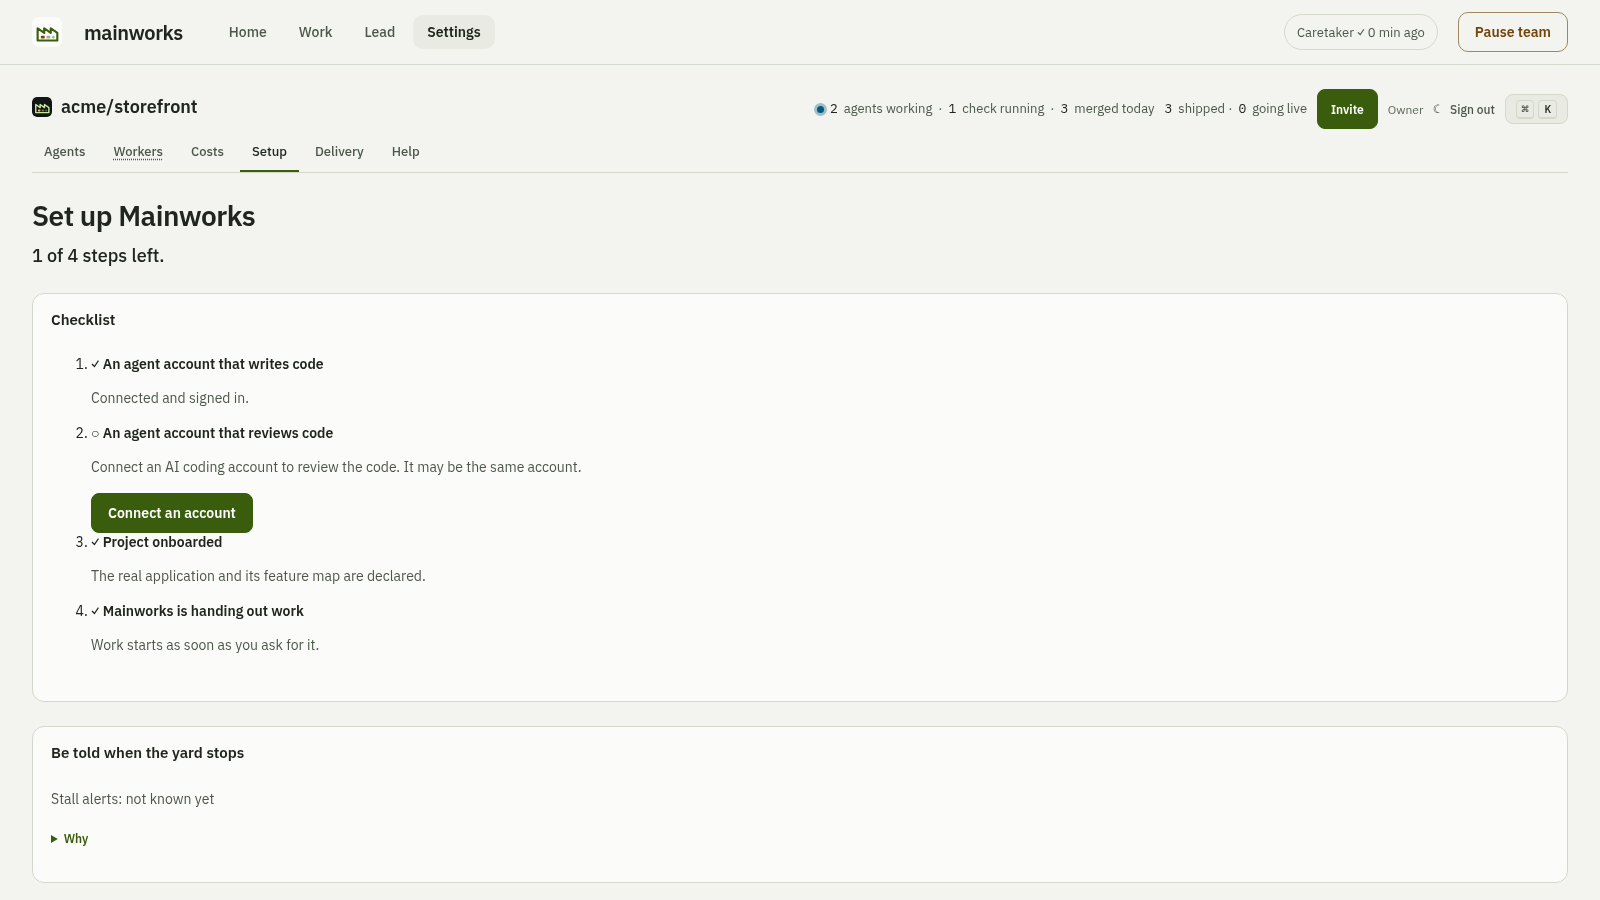
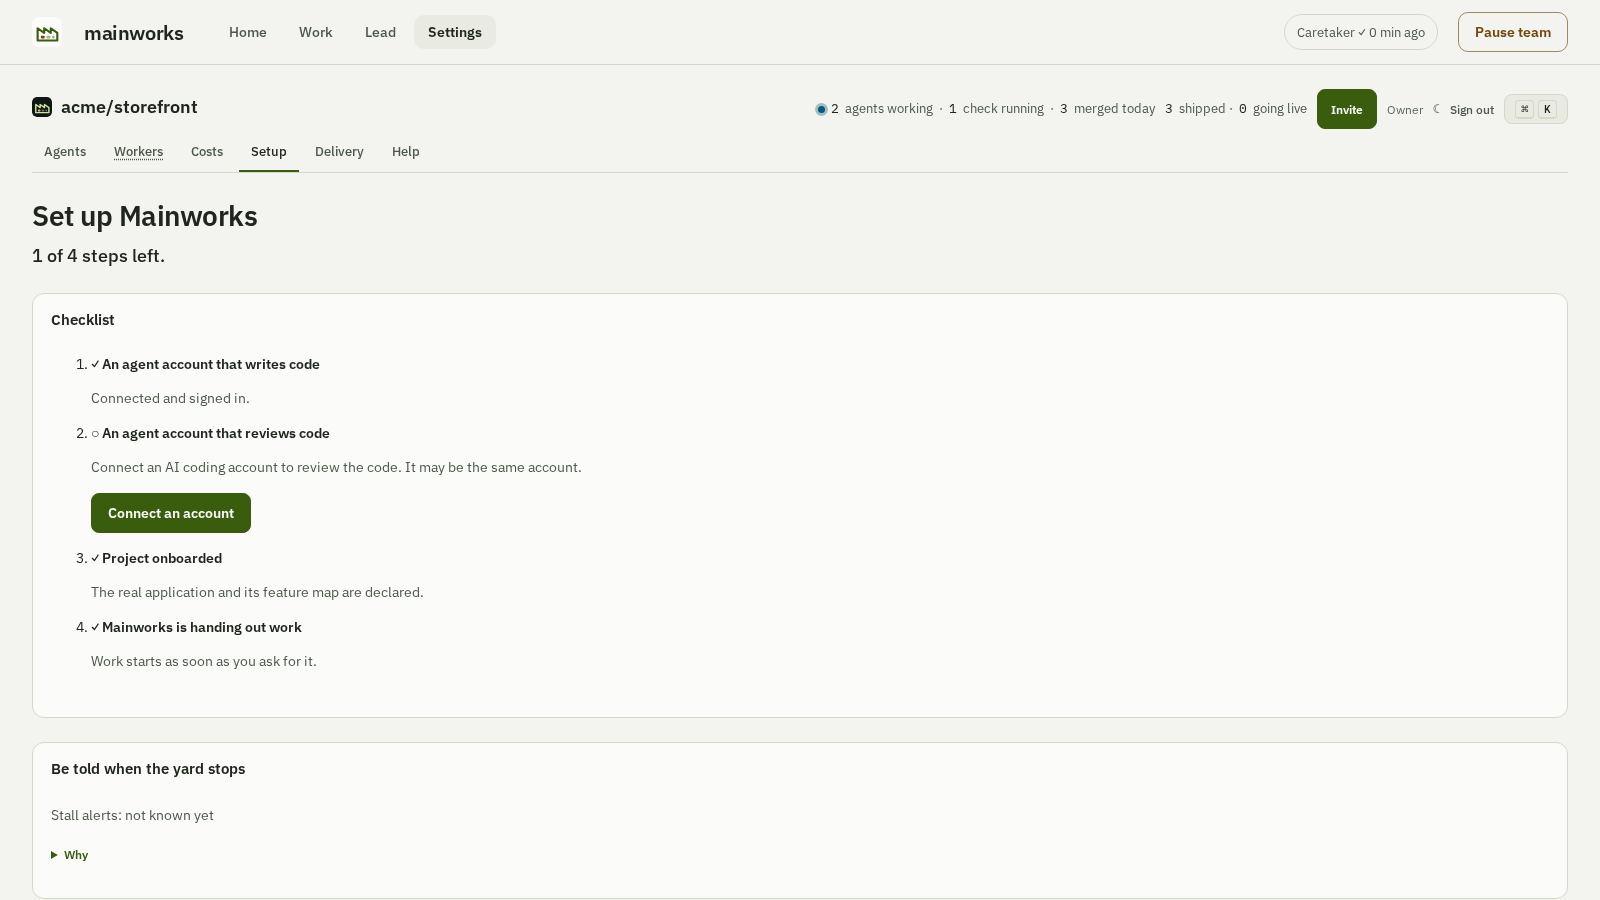
GY-3941: Setup action spacing, inline Hold checkbox, dialog names the Lead
e2e:setup-and-new-item-layout asserts all three at 1280 and 390 px; fails on the base tip.
docs/media/setup-connect.png and setup-first-goal.png regenerated with npm run docs:media.

diff --git a/browser-tests/setup-and-new-item-layout.spec.ts b/browser-tests/setup-and-new-item-layout.spec.ts
@@ -1,0 +1,53 @@
+import { test, expect, type Page } from '@playwright/test';
+import { at, buildDemoState } from '../scripts/docs-media-demo.mjs';
+
+// e2e:setup-and-new-item-layout — GY-3941: the pages the README and getting-started guide show first read
+// cleanly at 1280 and 390 px. On Setup, an unfinished step's action button leaves space above the next
+// step's heading; in New work item, the Hold checkbox sits on its label's line, and the help names the Lead.
+
+async function serve(page: Page, phase: 'setup' | 'before-create') {
+  const state = buildDemoState(phase);
+  await page.route('**/api/**', route => {
+    const path = new URL(route.request().url()).pathname.slice('/api/'.length);
+    if (path === 'status') return route.fulfill({ json: state.status });
+    if (path === 'work-snapshot') return route.fulfill({ json: { work: state.work, jobs: [], now: at(0) } });
+    if (path === 'board') return route.fulfill({ json: state.board });
+    if (path === 'flow') return route.fulfill({ json: state.flow });
+    if (path === 'work') return route.fulfill({ json: state.work });
+    return route.fulfill({ json: [] });
+  });
+}
+
+for (const width of [1280, 390]) {
+  test(`e2e:setup-and-new-item-layout — Setup and New work item read cleanly at ${width} px`, async ({ page }) => {
+    await page.setViewportSize({ width, height: 900 });
+    await serve(page, 'setup');
+    await page.goto('/#setup');
+    const action = page.locator('.setup-checklist [data-setup-action="account:reviewer"]');
+    await expect(action).toBeVisible({ timeout: 15_000 });
+    const next = action.locator('xpath=ancestor::li[1]/following-sibling::li[1]/strong');
+    const [button, heading] = [await action.boundingBox(), await next.boundingBox()];
+    expect(heading!.y - (button!.y + button!.height), 'space between the action button and the next step').toBeGreaterThanOrEqual(12);
+
+    await page.unrouteAll();
+    await serve(page, 'before-create');
+    await page.goto('/#work');
+    await page.reload();
+    await page.getByRole('button', { name: /New work item/ }).first().click();
+    const dialog = page.getByRole('dialog', { name: 'New work item' });
+    const hold = dialog.getByRole('checkbox', { name: /Hold/ });
+    // The label's own text, measured from its text node: the checkbox shares that line and comes first.
+    const [box, text] = await hold.evaluate(input => {
+      const range = document.createRange();
+      range.selectNodeContents(input.parentElement!);
+      range.setStartAfter(input);
+      const rect = (r: DOMRect) => ({ x: r.x, y: r.y, width: r.width, height: r.height });
+      return [rect(input.getBoundingClientRect()), rect(range.getBoundingClientRect())];
+    });
+    expect(Math.abs((box.y + box.height / 2) - (text.y + text.height / 2)), 'checkbox centred on its label line').toBeLessThan(6);
+    expect(box.x + box.width, 'checkbox before its label').toBeLessThanOrEqual(text.x + 1);
+    await expect(dialog).toContainText('The Lead writes the criteria and proofs.');
+    await expect(dialog).not.toContainText(/\bmaster\b/i);
+    expect(await page.evaluate(() => document.scrollingElement!.scrollWidth - document.scrollingElement!.clientWidth), 'no sideways scroll').toBe(0);
+  });
+}

diff --git a/web/pages/create-work.tsx b/web/pages/create-work.tsx
@@ -33,8 +33,8 @@ export default function CreateWork({ work, error, busy, setCreating, setBusy, se
     <label>Why it helps users<input name="why" required maxLength={300} placeholder="One sentence: who gets what"/></label>
     <label>Why it is the simplest thing that works<input name="simplest" required maxLength={300} placeholder="One sentence: what it leaves out"/></label>
     <label>Description (optional)<textarea name="description" rows={3}/></label>
-    <label><input type="checkbox" name="hold"/> Hold (keep it out of dispatch until released)</label>
-    <p className="muted">Describe the change. The master writes the criteria and proofs.</p>
+    <label className="check-label"><input type="checkbox" name="hold"/> Hold (keep it out of dispatch until released)</label>
+    <p className="muted">Describe the change. The Lead writes the criteria and proofs.</p>
     <details open={advanced} onToggle={e => setAdvanced(e.currentTarget.open)}><summary>Advanced</summary>
     <fieldset className="criteria-fields"><legend>What must be true when it is done</legend>
       <p className="muted">Each <Term term="acceptance criterion">criterion</Term> is one thing someone can check. Give it one or more <Term term="proof"><strong>proofs</strong></Term>: the names of the tests that show it is true. A proof name starts with its kind — <Term term="unit test"><code>unit:</code></Term> a fast code test, <Term term="integration test"><code>integration:</code></Term> a test against a real database or service, <Term term="end-to-end test"><code>e2e:</code></Term> a test through the browser, <Term term="manual check"><code>manual:</code></Term> a person checks it. Examples: <Term term="unit test"><code>unit:login-rejects-bad-password</code></Term>, <Term term="integration test"><code>integration:claim-safety</code></Term>, <Term term="end-to-end test"><code>e2e:checkout</code></Term>, <Term term="manual check"><code>manual:copy-review</code></Term>. Someone who did not build the work must run it.</p>

diff --git a/web/style.css b/web/style.css
@@ -339,7 +339,7 @@ code.sha{display:inline-block;max-width:8ch;overflow:hidden;white-space:nowrap;v
 .run-history{list-style:none;padding:0;margin:var(--space-2) 0 0;display:grid;gap:6px;font-size:var(--type-small);color:var(--text-2)}
 .test-case-list{list-style:none;padding:0;margin:0;display:grid;gap:8px}
 /* GY-409 connect an account: the picker, the primary action, and the collapsed advanced forms. */
-.connect-button{flex-shrink:0}
+.connect-button{flex-shrink:0}.setup-checklist li>[data-setup-action]{display:inline-block;margin-bottom:16px}.check-label{display:flex;align-items:center;gap:8px}.check-label input{width:auto;margin:0}
 .connect-providers{display:grid;grid-template-columns:repeat(auto-fill,minmax(240px,1fr));gap:12px;list-style:none;padding:0;margin:14px 0 4px}
 .connect-providers button{width:100%;text-align:left;background:var(--raised);color:var(--text);border:1px solid var(--border);border-radius:7px;padding:14px;font-weight:400}
 .connect-providers button:hover{border-color:var(--up-next)}
